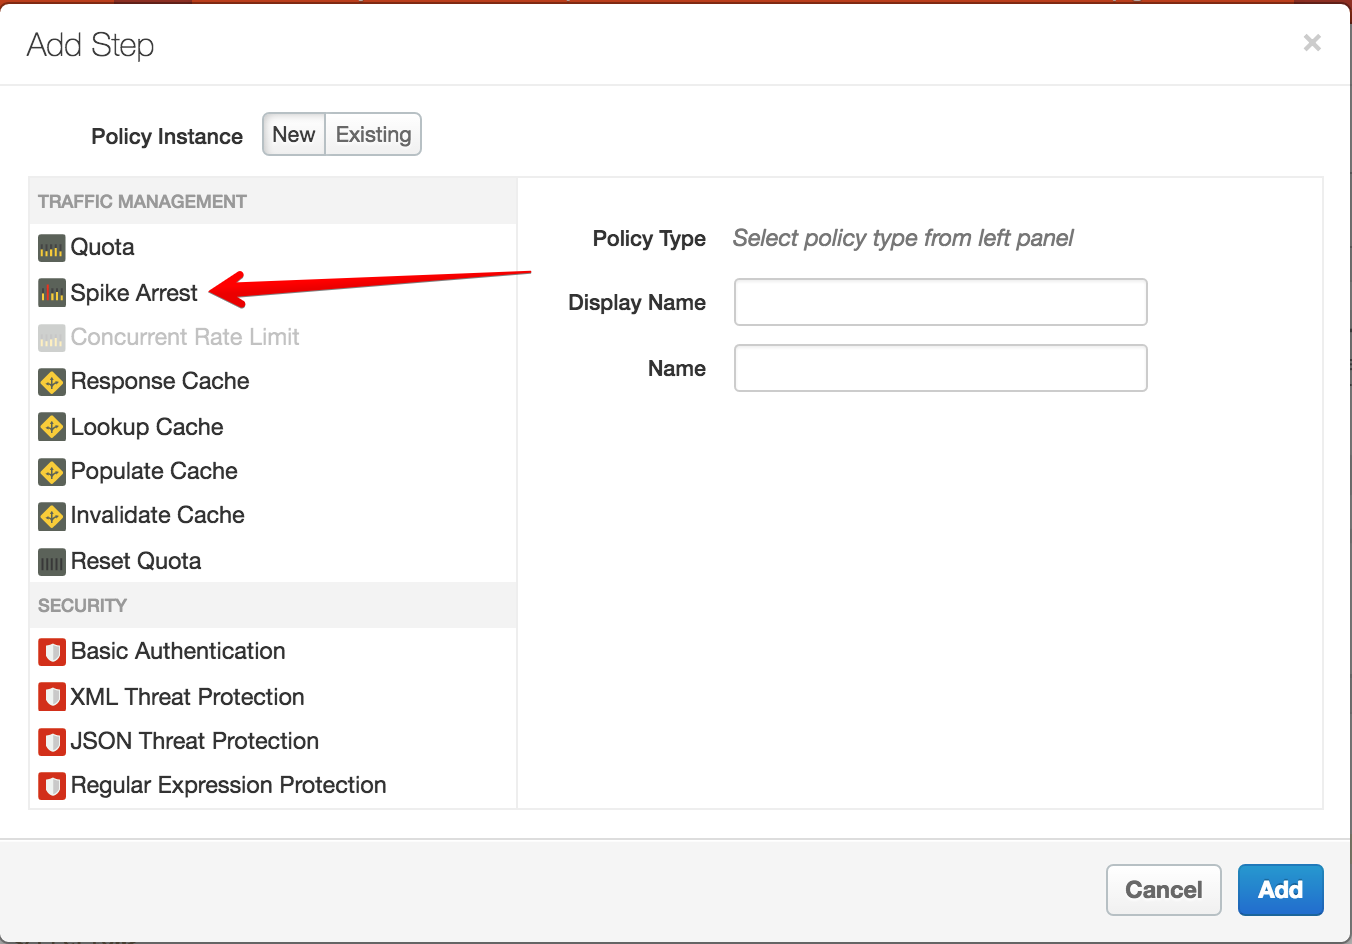
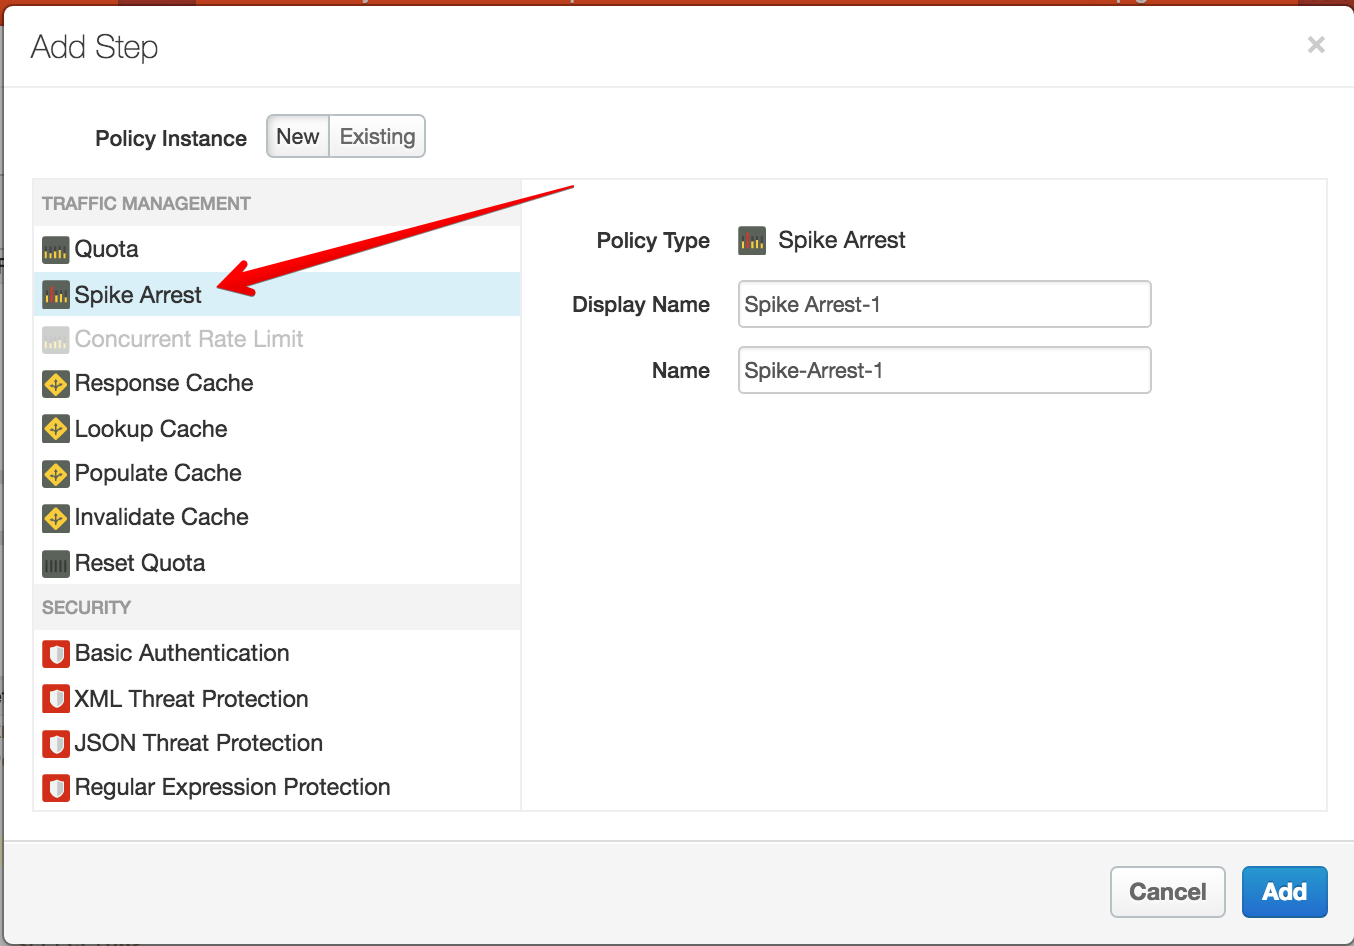
lab2 interim

diff --git a/lab3.md b/lab3.md
@@ -17,3 +17,9 @@ In the top right of the request-response pipeline, click on the *+ Step* button:
 This will reveal a list of policies that you can attach to your API Proxy. Select the Spike Arrest Policy from the list. 
 
 ![Policy List](policy-list.png)
+
+Leave the *Display Name* and *Name* fields as is and click on the *Add* button. This will add a new Spike Arrest policy to your API Proxy. 
+
+![Spike Arrest](spike-arrest.png)
+
+By default, this policy will throttle traffic at a rate of 30 requests per second (30ps). To test the throttling behavior, change the rate of your Spike Arrest policy to 5 per minute. To do this, replace 30ps with 5pm. 
